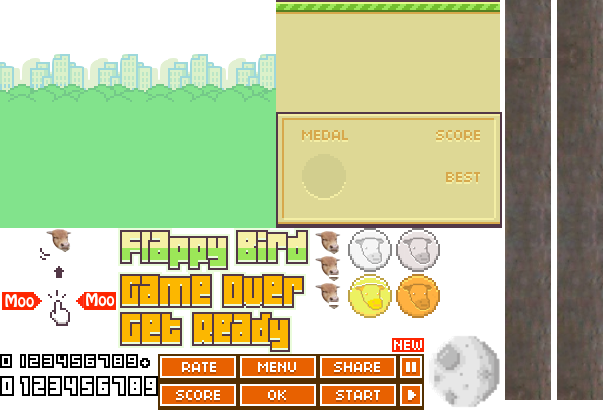
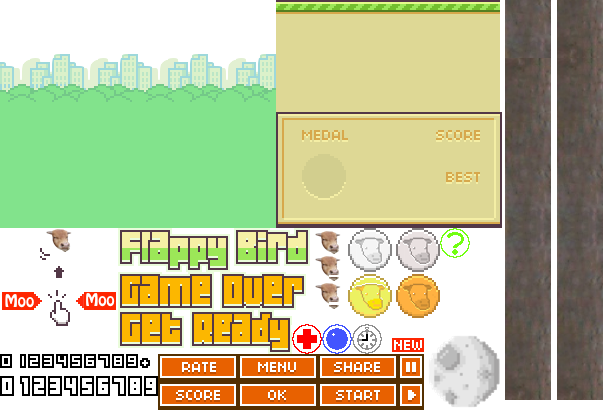
MAJOR update
I forgot to update the website during the creation of the powerups.

Changed region(s): [[0.4752, 0.7902, 0.6238, 0.878], [0.7129, 0.5561, 0.7723, 0.6439]]

diff --git a/index.html b/index.html
@@ -26,7 +26,7 @@
 <body>
 		<script>
 
-		var //test
+		var
 
 		canvas,
 		ctx,
@@ -34,10 +34,27 @@
 		height,
 		okbtn,
 
+		_x = -200,
+		_y = 0,
+		powery = 0, 
+		randnum = 0,
+		randnum1 = 0,
+		randnum2 = 0,
+		powerspawn = 0,
+		invpower = 0,
+		invpowermini = 0,
+		gamespeed = 100,
+		timevar = 0,
+		
+
 		fgpos = 0,
 		frames = 0,
 		score = 0,
 		best = 0,
+
+		invincibility = 0,
+		shield = 0,
+		time = 0,
 
 		currentstate,
 		states = {
@@ -117,14 +134,14 @@
 			},
 
 			update: function() {
-				if (frames % 100 === 0) {
-					var _y = height - (s_pipeSouth.height+s_fg.height+120+200*Math.random());
+				if (frames % gamespeed === 0) {
+					_y = height - (s_pipeSouth.height+s_fg.height+120+(200*Math.random()));
 					this._pipes.push({
 						x:500,
 						y:_y,
 						width: s_pipeSouth.width,
 						height: s_pipeSouth.height
-					});
+					})
 				}
 				for (var i = 0, len = this._pipes.length; i < len; i++) {
 					var p = this._pipes[i];
@@ -132,6 +149,14 @@
 					if (i === 0) {
 
 						score += p.x === bird.x ? 1 : 0;
+						if(powerspawn === 0){
+							randnum = p.x === bird.x ? Math.random()*10 : 0;
+							powery = _y;
+							_x = 300;
+						}
+						if(time === 1){
+							timevar += p.x === bird.x ? 1 : 0;
+						}
 
 						var cx  = Math.min(Math.max(bird.x, p.x), p.x+p.width);
 						var cy1 = Math.min(Math.max(bird.y, p.y), p.y+p.height);
@@ -147,7 +172,28 @@
 						var r = bird.radius*bird.radius;
 
 						if (r > d1 || r > d2) {
-								currentstate = states.Score;
+							if(invincibility === 1){
+								if(invpower > 0){
+									invpower -= p.x === bird.x ? 1 : 0;
+								}
+							}
+							if(shield === 1){
+								if(invpower > 0){
+									invpower -= p.x === bird.x ? 1 : 0;
+								}
+							}
+							if(invpowermini <= 0){
+								if(invpower === 0){
+									currentstate = states.Score
+								}
+							}
+							if(invincibility === 0){
+								if(shield === 0){
+									if(time === 0){
+										powerspawn = 0
+									}
+								}
+							}
 						}
 					}
 
@@ -166,9 +212,11 @@
 					var p = this._pipes[i];
 					s_pipeSouth.draw(ctx, p.x, p.y);
 					s_pipeNorth.draw(ctx, p.x, p.y+80+p.height);
+					
 				}
-			},
+			}
 		};
+
 
 		function onpress(evt) {
 			switch (currentstate) {
@@ -189,6 +237,12 @@
 						pipes.reset();
 						currentstate = states.Splash;
 						score = 0;
+						powerspawn = 0;
+						randnum = 0;
+						randnum1 = 0;
+						invincibility = 0;
+						shield = 0; 
+						time = 0;
 					}
 					if (score >= 5) {
 						score -= 5;
@@ -199,6 +253,12 @@
 							currentstate = states.Splash;
 							pipes.reset();
 							score = 0;
+							powerspawn = 0;
+							randnum = 0;
+							randnum1 = 0;
+							invincibility = 0;
+							shield = 0; 
+							time = 0;
 						}
 					}
 					break;
@@ -218,7 +278,7 @@
 				height = 480;
 				canvas.style.border = "1px solid #000";
 				evt = "mousedown";
-			}
+			};
 
 			document.addEventListener(evt, onpress);
 
@@ -267,18 +327,68 @@
 			if (currentstate === states.Game) {
 				pipes.update();
 			}
-
 			bird.update();
 			
 		}
-
 
 		function render() {
 			ctx.fillRect(0, 0, width, height);
 			s_bg.draw(ctx, 0, height - s_bg.height);
 			s_bg.draw(ctx, s_bg.width, height - s_bg.height);
 			s_moon.draw(ctx, 10, 10);
-			
+
+			if(invincibility === 0){
+				if(shield === 0){
+					if(time === 0){
+						if(powerspawn === 0){
+							if(randnum > 0) { //8
+								randnum1 = randnum;
+								powerspawn = 1;
+							}
+						}
+					}
+				}
+			};
+
+			if(powerspawn === 1) {
+				s_mystery.draw(ctx, ((_x + ((s_pipeSouth.width/2)-s_invincibility.width/2))-2)+160, (powery + (s_pipeSouth.height + 39 - (s_invincibility.height/2)))+2),
+				_x -= 2
+			};
+			if(_x === -110){
+				_x = -200;
+				randnum2 = Math.random();
+
+				if(randnum2 > 0){ //randnum2 < 3.33333
+					invincibility = 1,
+					invpower = 3,
+					invpowermini = 40
+				}
+
+				//if(3.33334 < randnum2 < 6.66666){ //3.33334 < randnum2 < 6.66666
+					//shield = 1,
+					//invpower = 1,
+					//invpowermini = 40
+				//}
+
+				//if(6.66667 < randnum2){
+					//time = 1,
+					//gamespeed = 150
+					//timevar = 0
+				//}
+			}
+			if(invpower === 0){
+				invpowermini -= 1
+			}
+
+			if(timevar === 5){
+				timevar = 0,
+				gamespeed = 100,
+				powerspawn = 0
+			}
+
+			console.log(invincibility, shield, time)
+
+
 			if(score >= 5) {
 				s_bronze.draw(ctx, 25, 28);
 			}
@@ -291,9 +401,32 @@
 
 			pipes.draw(ctx);
 			bird.draw(ctx);
-			
+
 			s_fg.draw(ctx, fgpos, height -s_fg.height);
 			s_fg.draw(ctx, fgpos + s_fg.width, height - s_fg.height);
+
+
+			if(invincibility === 1){
+				if(invpower > 0){
+					s_invincibility.draw(ctx, width-s_invincibility.width, 0)
+				}
+				if(invpower === 0){
+					invincibility = 0
+				}
+			}
+			if(shield === 1){
+				if(invpower > 0){
+					s_shield.draw(ctx, width-invincibility.width, 0)
+				}
+			}
+			if(time === 1){
+				s_time.draw(ctx, width-invincibility.width, 0)
+			}
+			if(currentstate === states.Score){
+				_x = -200;
+				powerspawn = 0
+			};
+
 
 			var width2 = width/2;
 

diff --git a/sprite.js b/sprite.js
@@ -48,6 +48,11 @@ function initSprites(img) {
 	
 	s_pipeNorth = new Sprite(img, 251, 0, 26, 200);
 	s_pipeSouth = new Sprite(img, 277, 0, 26, 200);
+
+	s_mystery = new Sprite(img, 220, 114, 15, 15); //440, 228
+	s_invincibility = new Sprite(img, 146, 162, 15, 15); //292, 324
+	s_shield = new Sprite(img, 161, 162, 15, 15); //322, 324
+	s_time = new Sprite(img, 176, 162, 15, 15); //352, 324
 	
 	s_text = {
 		FlappyBird: new Sprite(img, 59, 114, 96, 22),
